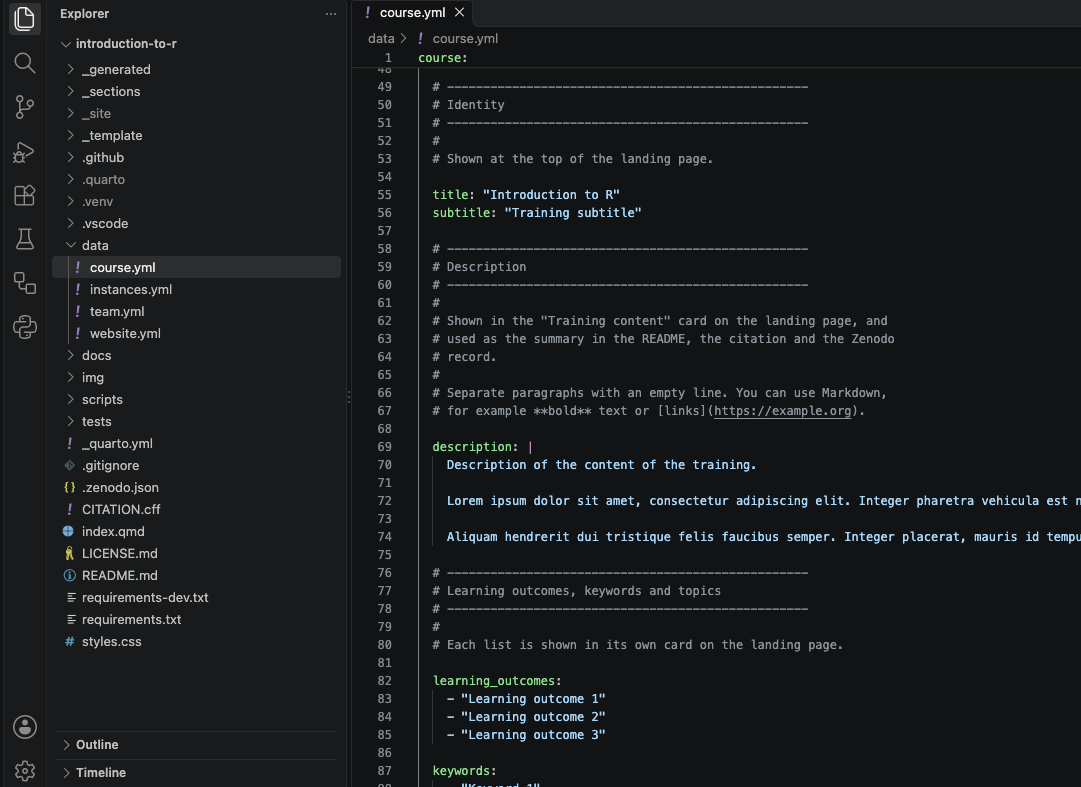
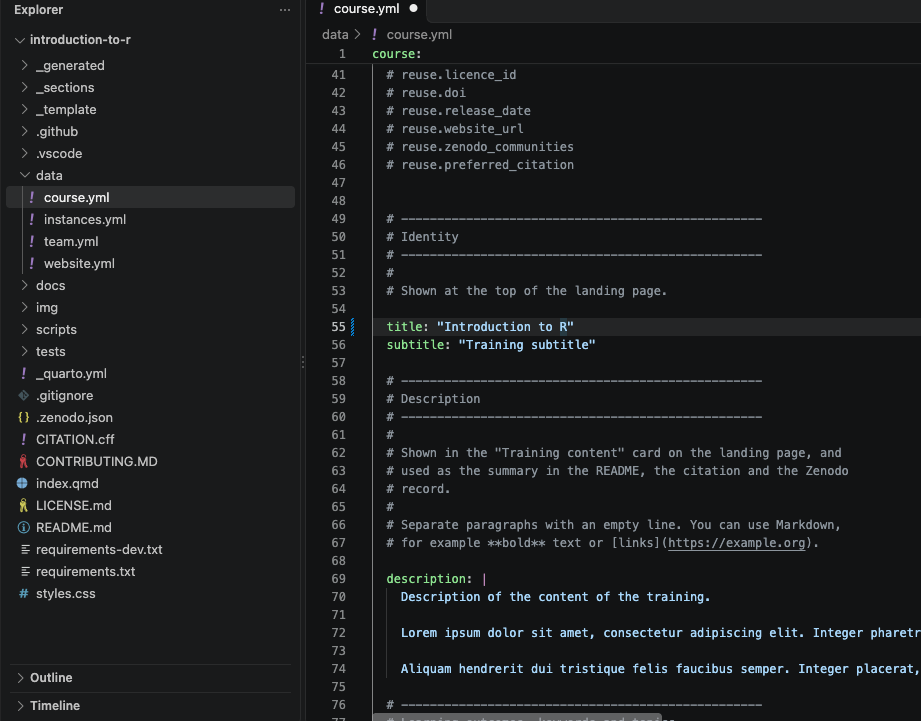
update landing page

Changed region(s): [[0.3344, 0.0, 1.0, 1.0], [0.0, 0.0, 0.1824, 0.8544], [0.0, 0.9154, 0.1216, 1.0]]

diff --git a/styles.css b/styles.css
@@ -240,6 +240,17 @@ main.content table thead th {
     color: var(--guide-text);
 }
 
+/* ==========================================================================
+   Text styled like the template banner, e.g. "Want to use this template?"
+   ========================================================================== */
+.template-label {
+    padding: 0.1rem 0.45rem;
+    border-radius: 4px;
+    background: #f3dfb3;
+    color: #292929;
+    font-weight: 700;
+    white-space: nowrap;
+}
 
 /* ==========================================================================
    Footer
